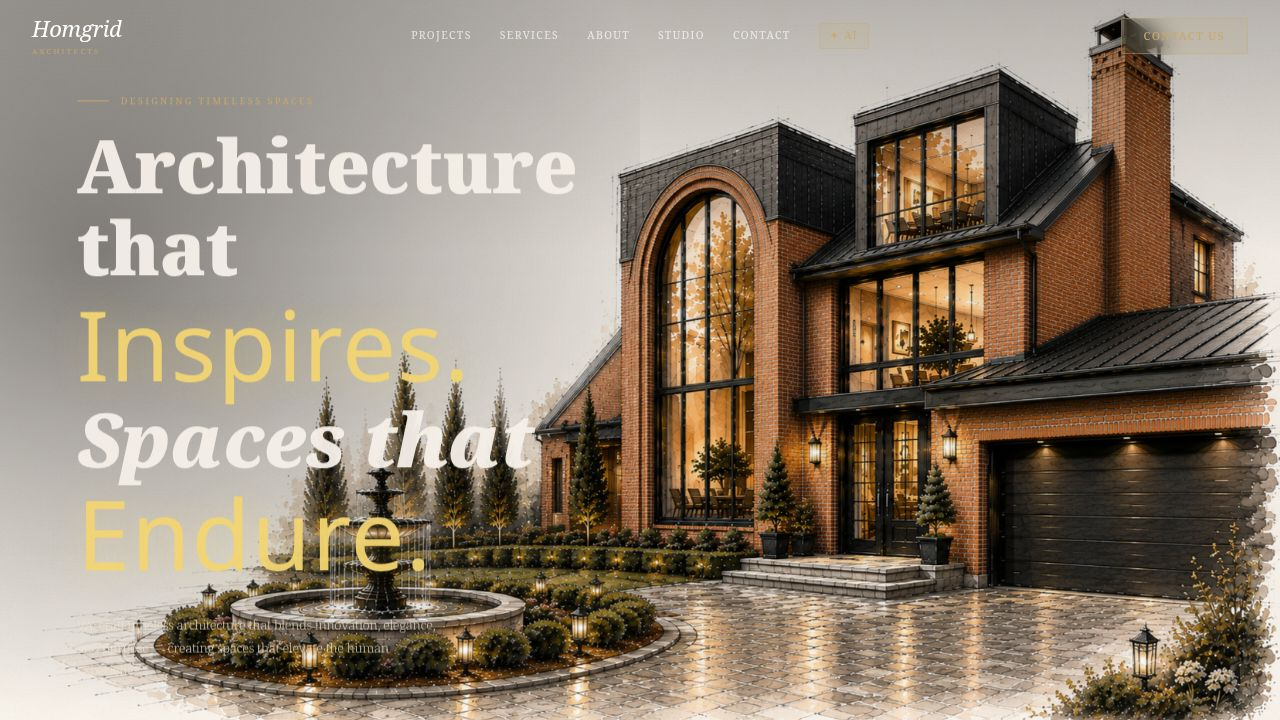
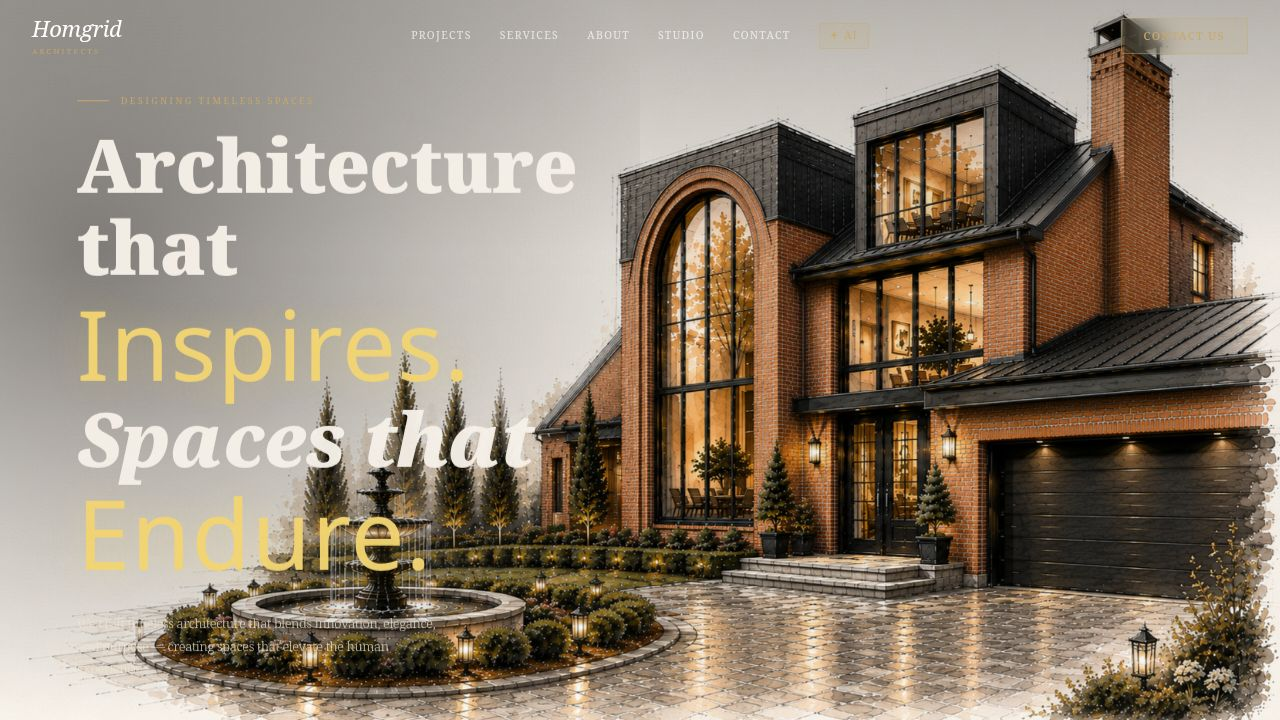
Update configuration to allow deployment on Vercel
Modify vite.config.ts to provide default values for PORT and BASE_PATH, making them optional and resolving deployment issues on Vercel.

Replit-Commit-Author: Agent
Replit-Commit-Session-Id: 78a97087-fb2e-4884-835a-d02d45d2899f
Replit-Commit-Checkpoint-Type: full_checkpoint
Replit-Commit-Event-Id: 48431546-b592-4fc8-9734-d889beebd6ed
Replit-Commit-Screenshot-Url: https://storage.googleapis.com/screenshot-production-us-central1/5b011156-b5f4-4fc4-9d2b-5bab1b4c68c9/78a97087-fb2e-4884-835a-d02d45d2899f/8Jj6bB3
Replit-Helium-Checkpoint-Created: true

diff --git a/artifacts/homgrid-website/vite.config.ts b/artifacts/homgrid-website/vite.config.ts
@@ -2,47 +2,33 @@ import { defineConfig } from "vite";
 import react from "@vitejs/plugin-react";
 import tailwindcss from "@tailwindcss/vite";
 import path from "path";
-import runtimeErrorOverlay from "@replit/vite-plugin-runtime-error-modal";
 
-const rawPort = process.env.PORT;
+const isReplit = !!process.env.REPL_ID;
 
-if (!rawPort) {
-  throw new Error(
-    "PORT environment variable is required but was not provided.",
-  );
-}
-
+const rawPort = process.env.PORT ?? "3000";
 const port = Number(rawPort);
-
-if (Number.isNaN(port) || port <= 0) {
-  throw new Error(`Invalid PORT value: "${rawPort}"`);
-}
-
-const basePath = process.env.BASE_PATH;
-
-if (!basePath) {
-  throw new Error(
-    "BASE_PATH environment variable is required but was not provided.",
-  );
-}
+const basePath = process.env.BASE_PATH ?? "/";
 
 export default defineConfig({
   base: basePath,
   plugins: [
     react(),
     tailwindcss(),
-    runtimeErrorOverlay(),
-    ...(process.env.NODE_ENV !== "production" &&
-    process.env.REPL_ID !== undefined
+    ...(isReplit
       ? [
-          await import("@replit/vite-plugin-cartographer").then((m) =>
-            m.cartographer({
-              root: path.resolve(import.meta.dirname, ".."),
-            }),
-          ),
-          await import("@replit/vite-plugin-dev-banner").then((m) =>
-            m.devBanner(),
-          ),
+          (await import("@replit/vite-plugin-runtime-error-modal")).default(),
+          ...(process.env.NODE_ENV !== "production"
+            ? [
+                await import("@replit/vite-plugin-cartographer").then((m) =>
+                  m.cartographer({
+                    root: path.resolve(import.meta.dirname, ".."),
+                  }),
+                ),
+                await import("@replit/vite-plugin-dev-banner").then((m) =>
+                  m.devBanner(),
+                ),
+              ]
+            : []),
         ]
       : []),
   ],